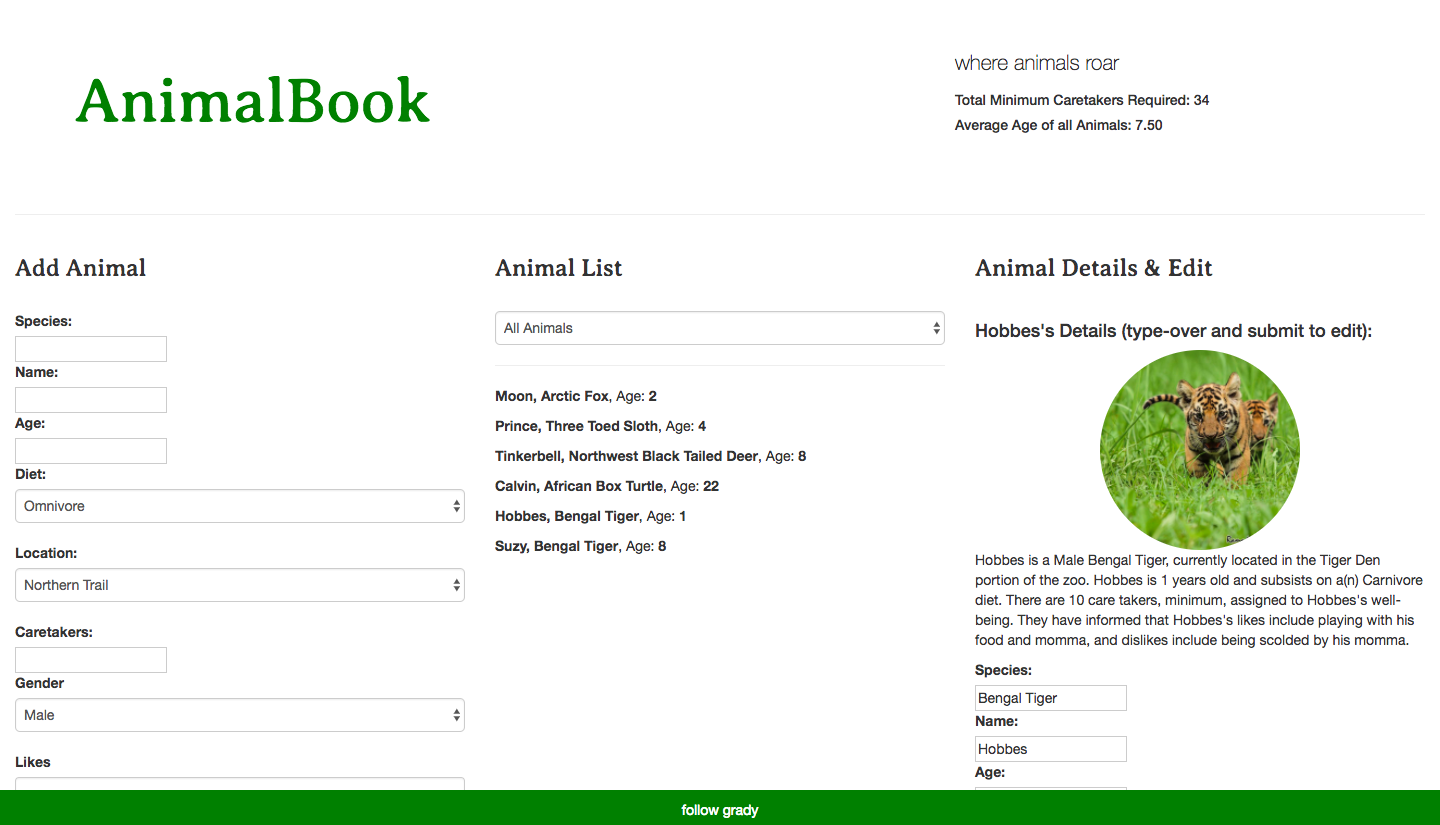
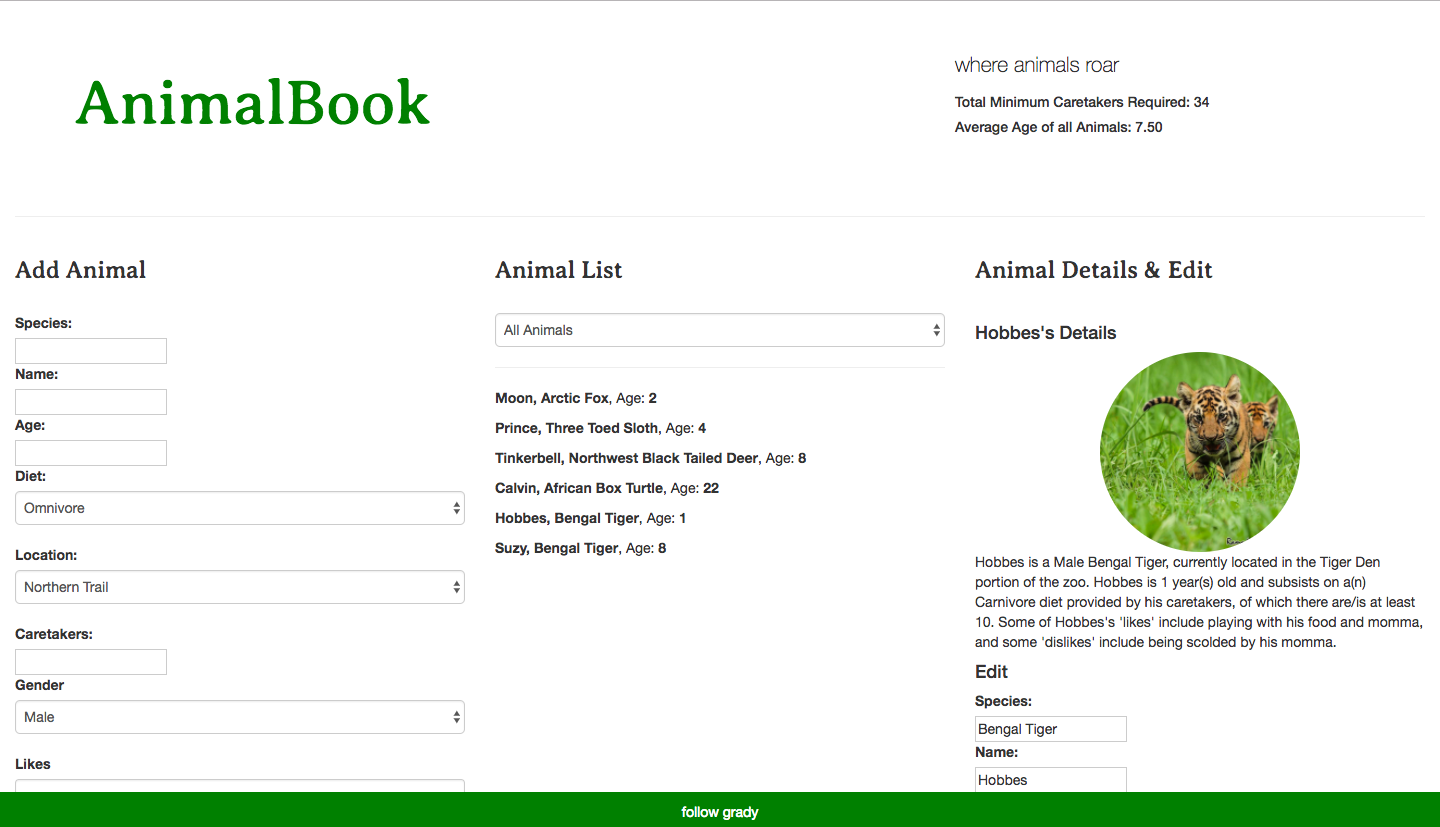
update description grammar

diff --git a/app/edit-animal.component.ts b/app/edit-animal.component.ts
@@ -6,11 +6,12 @@ import { Animal } from './animal.model';
   selector: 'edit-animal',
   template: `
   <br>
-  <h4>{{selectedAnimal.name}}'s Details (type-over and submit to edit): </h4>
+  <h4>{{selectedAnimal.name}}'s Details</h4>
   <img id="animal-pic" src={{selectedAnimal.image}} alt="Animal Pic">
   <p>
-    {{selectedAnimal.name}} is a {{selectedAnimal.gender}} {{selectedAnimal.species}}, currently located in the {{selectedAnimal.location}} portion of the zoo. {{selectedAnimal.name}} is {{selectedAnimal.age}} years old and subsists on a(n) {{selectedAnimal.diet}} diet. There are {{selectedAnimal.caretakers}} care takers, minimum, assigned to {{selectedAnimal.name}}'s well-being. They have informed that {{selectedAnimal.name}}'s likes include {{selectedAnimal.likes}}, and dislikes include {{selectedAnimal.dislikes}}.
+    {{selectedAnimal.name}} is a {{selectedAnimal.gender}} {{selectedAnimal.species}}, currently located in the {{selectedAnimal.location}} portion of the zoo. {{selectedAnimal.name}} is {{selectedAnimal.age}} year(s) old and subsists on a(n) {{selectedAnimal.diet}} diet provided by his caretakers, of which there are/is at least {{selectedAnimal.caretakers}}. Some of {{selectedAnimal.name}}'s 'likes' include {{selectedAnimal.likes}}, and some 'dislikes' include {{selectedAnimal.dislikes}}.
   </p>
+  <h4>Edit</h4>
   <div>
     <label>Species:</label><br>
     <input [(ngModel)]="selectedAnimal.species"><br>
